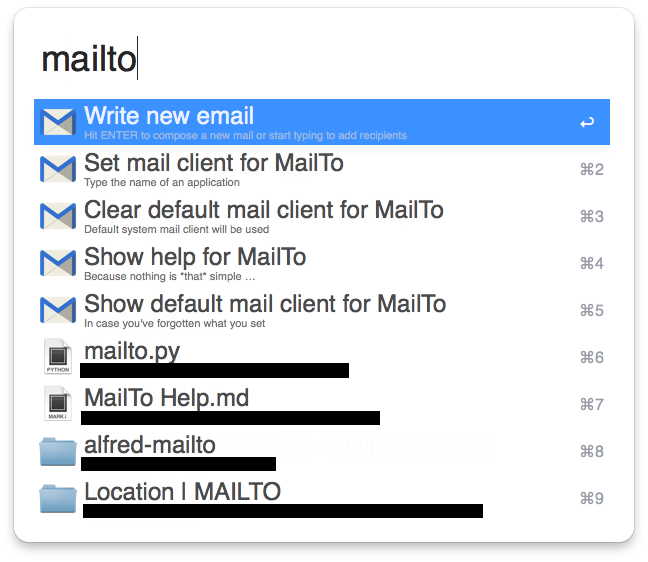
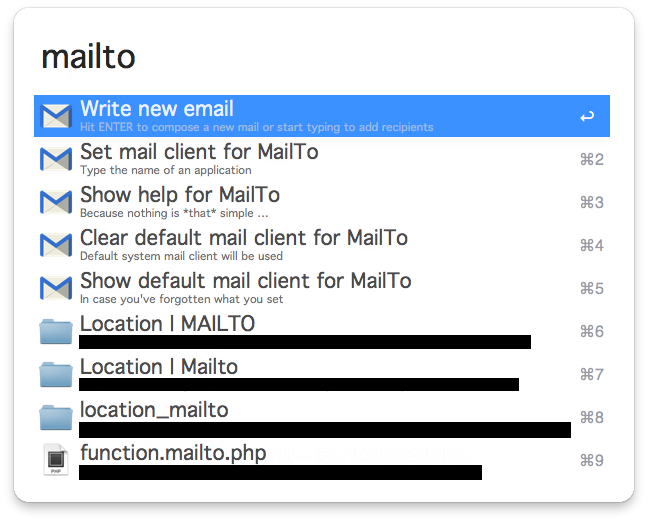
Update documentation and screenshots

diff --git a/src/help.html b/src/help.html
@@ -25,7 +25,7 @@
 
 <p>To start a new mail without recipients, hit <code>ENTER</code> on the <code>Write new email</code> result.</p>
 
-<p>To add recipients, type <code>mailto</code> (there&#8217;s a space at the end there!) and start typing the name or email address of someone in your Contacts or an email address that isn&#8217;t.</p>
+<p>To add recipients, type <code>mailto</code> (there&#8217;s a space at the end there!) and start typing the name or email address of someone in your Contacts or an email address that isn&#8217;t. You can also send mails to Groups.</p>
 
 <p>Selecting a result and hitting <code>TAB</code> will add that email address to the list of recipients, hitting <code>ENTER</code> on a result will add that email address to the list of recipients and open a new email in your selected client (i.e. closing Alfred&#8217;s window).</p>
 

diff --git a/Readme.md b/Readme.md
@@ -4,7 +4,7 @@ Alfred-MailTo
 
 ![](img/screenshot-2.png)
 
-A Workflow for [Alfred 2](http://www.alfredapp.com/) that allows you to choose from your Mac contacts (or enter email addresses manually) and compose a message using the email app of your choice.
+A Workflow for [Alfred 2](http://www.alfredapp.com/) that allows you to choose from your Mac Contacts, including Groups (or enter email addresses manually) and compose a message using the email app of your choice.
 
 Uses the [alfred-python](https://github.com/nikipore/alfred-python) library by [nikipore](https://github.com/nikipore).
 
@@ -12,7 +12,7 @@ Uses the [alfred-python](https://github.com/nikipore/alfred-python) library by [
 
 Open Alfred, type `mailto` (the default keyword) then either hit `ENTER` to open an entirely blank message or start typing the name or email address you'd like to send a mail to.
 
-Addresses will be suggested from matching contacts in your Mac address book. Hit `TAB` to autocomplete the recipient list from the selected result, or `ENTER` or `⌘+NUM` to add the address and start composing a mail.
+Addresses will be suggested from matching contacts and groups in your Mac address book. Hit `TAB` to autocomplete the recipient list from the selected result, or `ENTER` or `⌘+NUM` to add the address and start composing a mail.
 
 You can add multiple recipients by adding a comma between them.
 

diff --git a/src/help.md b/src/help.md
@@ -14,7 +14,7 @@ Alfred-MailTo Help
 
 To start a new mail without recipients, hit `ENTER` on the `Write new email` result.
 
-To add recipients, type `mailto ` (there's a space at the end there!) and start typing the name or email address of someone in your Contacts or an email address that isn't.
+To add recipients, type `mailto ` (there's a space at the end there!) and start typing the name or email address of someone in your Contacts or an email address that isn't. You can also send mails to Groups.
 
 Selecting a result and hitting `TAB` will add that email address to the list of recipients, hitting `ENTER` on a result will add that email address to the list of recipients and open a new email in your selected client (i.e. closing Alfred's window).
 
